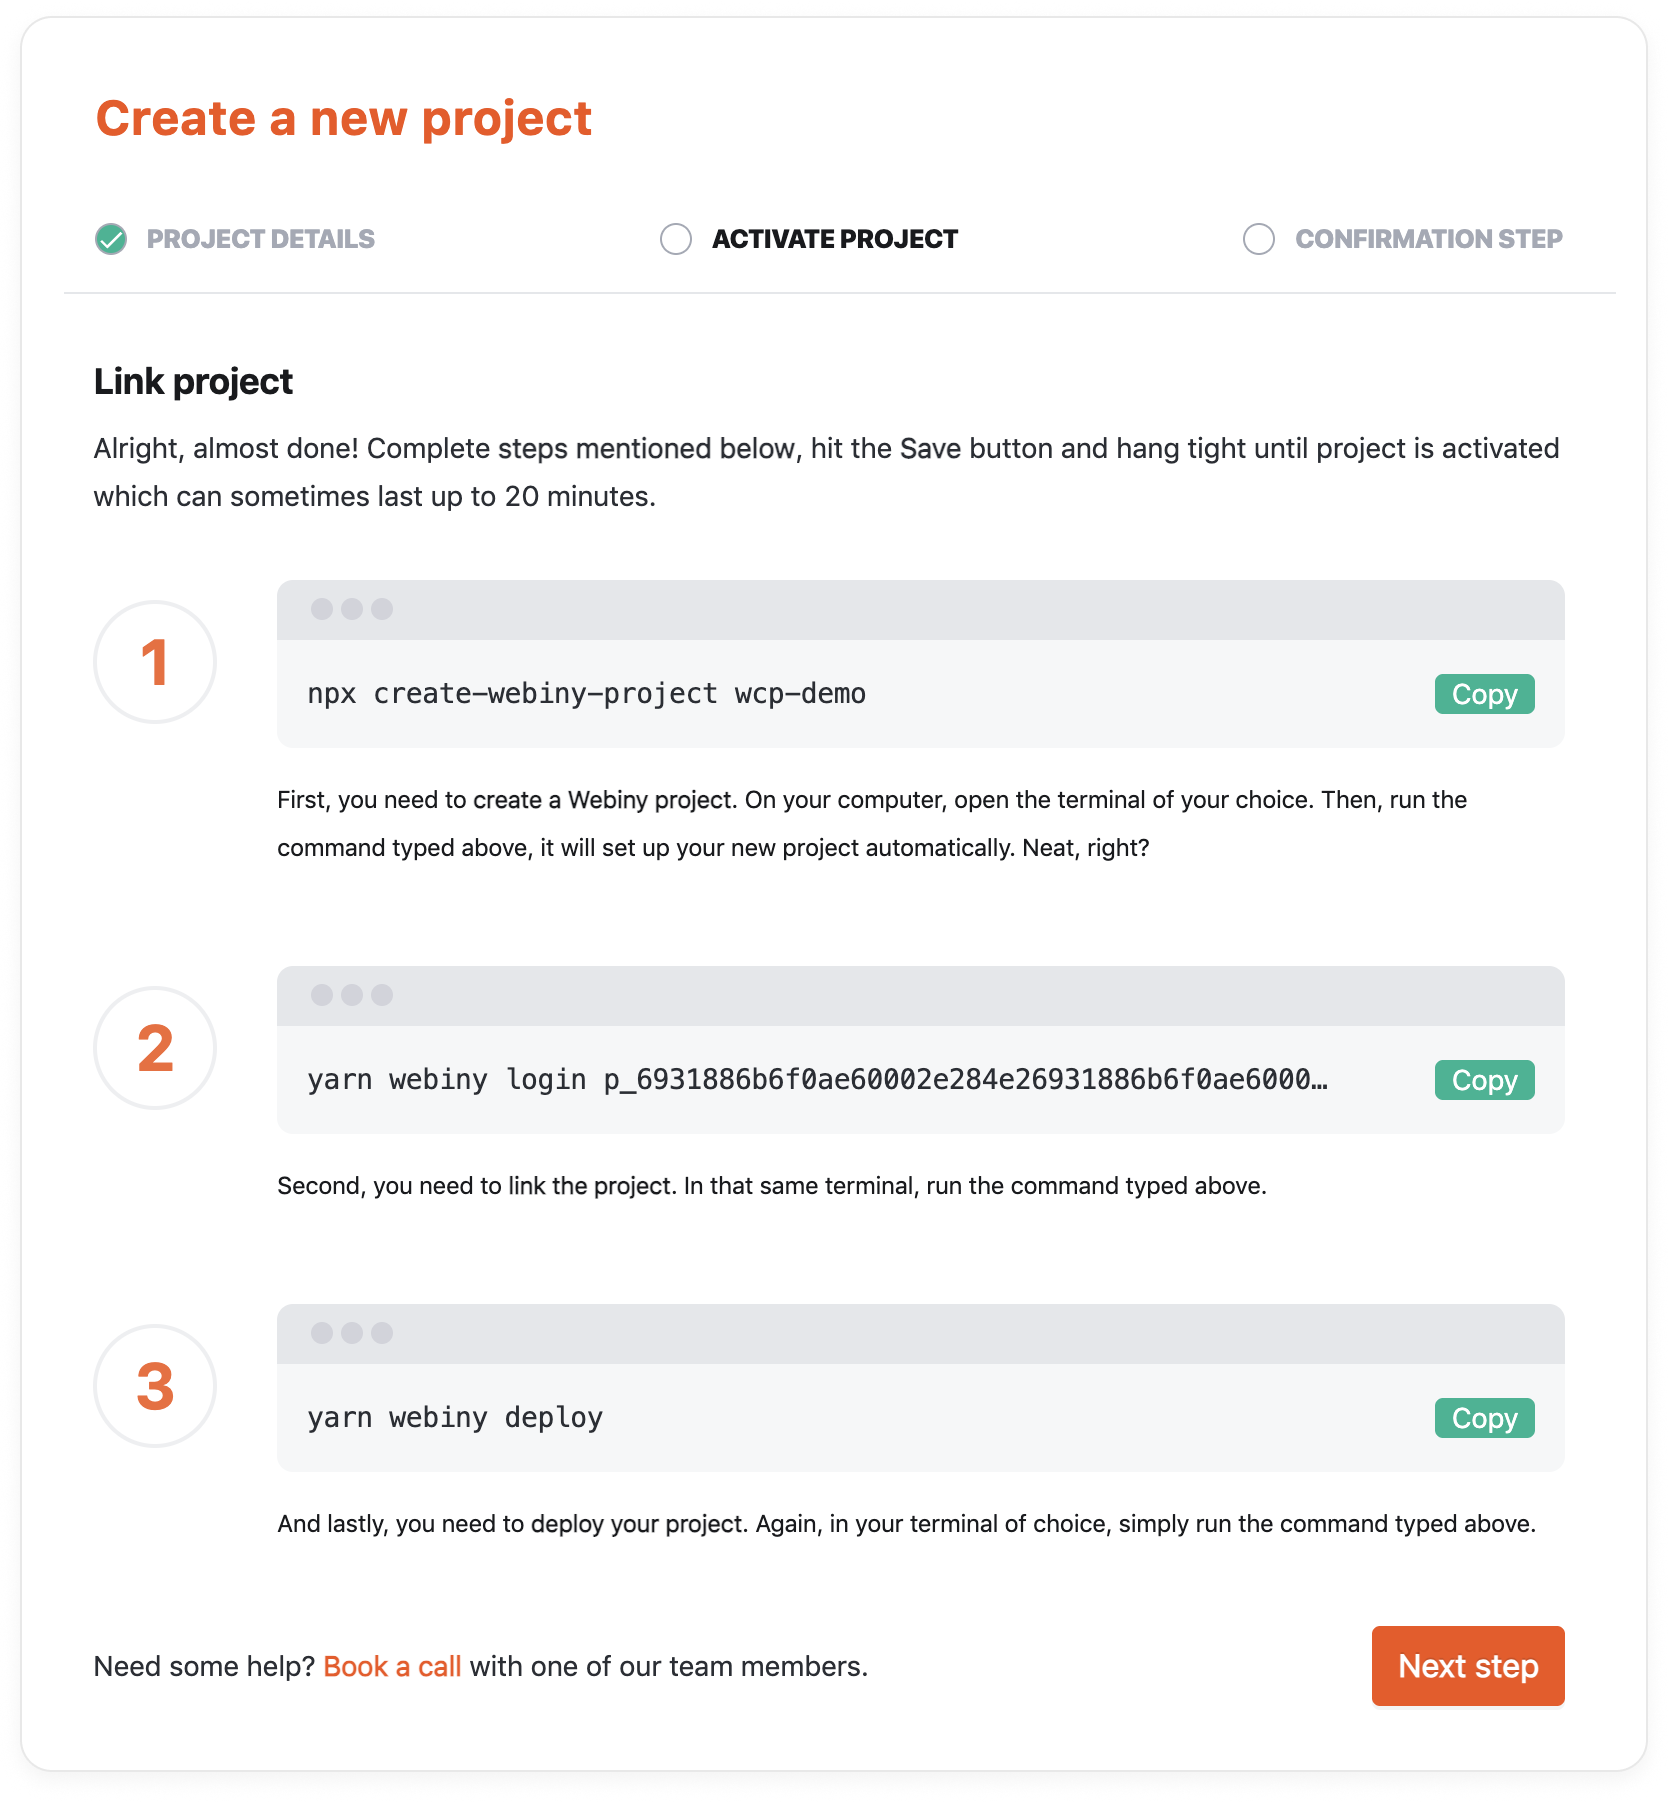
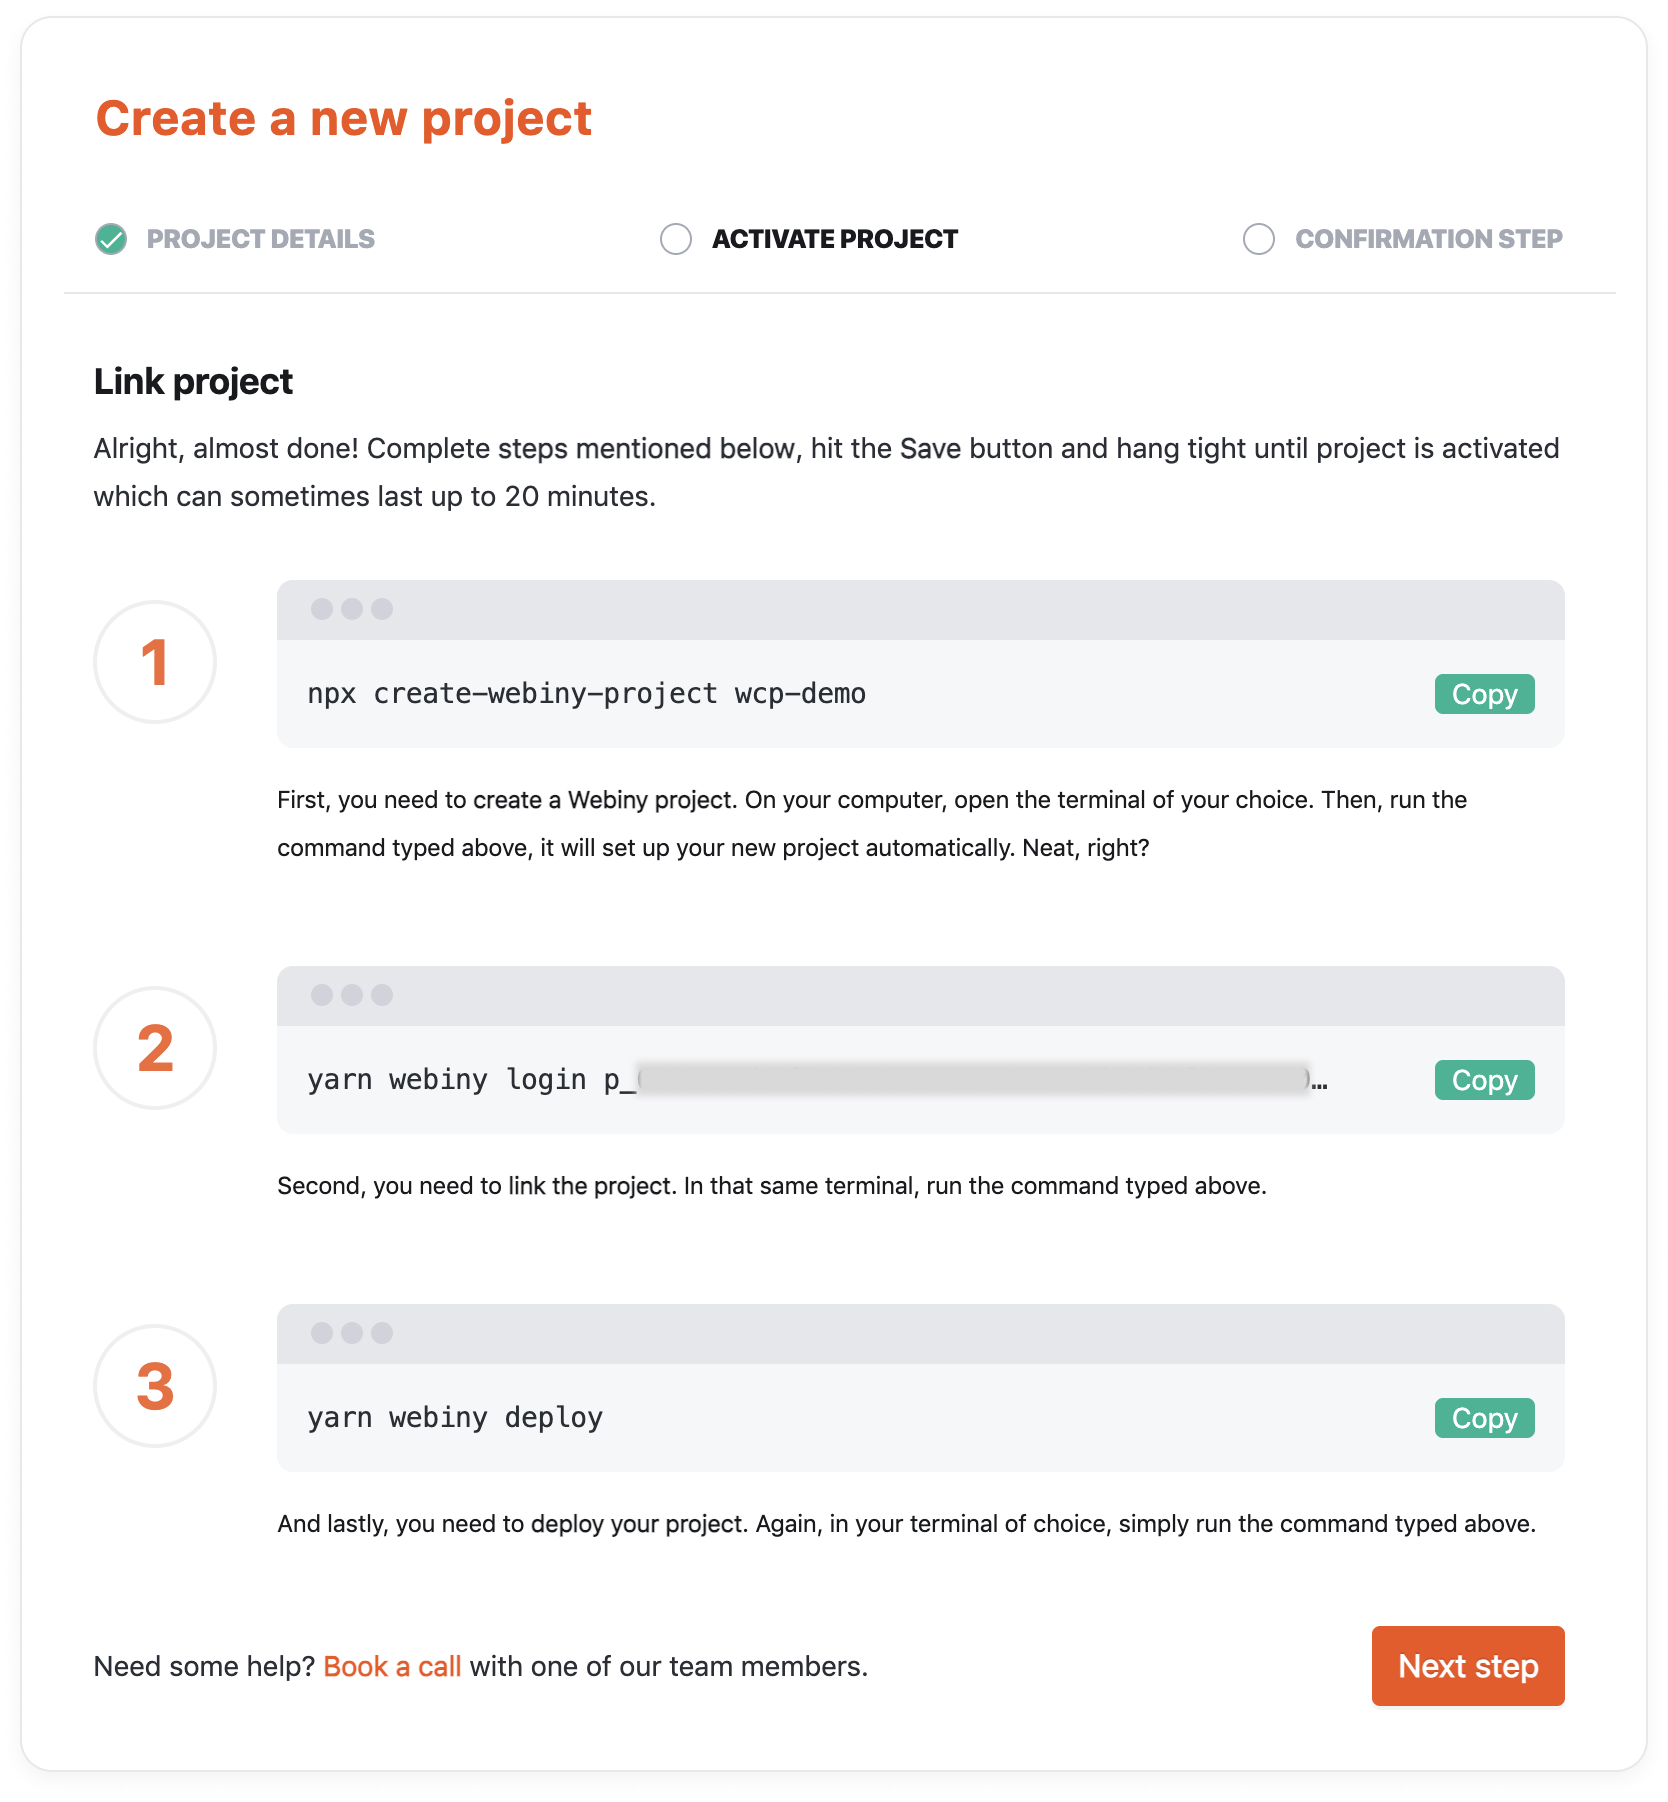
Updates to the lesson structure

Changed region(s): [[0.3741, 0.5905, 0.7794, 0.6215]]

diff --git a/lib/mdx-registry.ts b/lib/mdx-registry.ts
@@ -7,18 +7,18 @@
  * This registry maps slugs to their import functions
  */
 export const mdxImportRegistry: Record<string, () => Promise<any>> = {
+  "devops-best-practices/application-deployment-stacks": () => import("@/content/lessons/devops-best-practices/application-deployment-stacks.mdx"),
+  "devops-best-practices/webiny-deployments": () => import("@/content/lessons/devops-best-practices/webiny-deployments.mdx"),
   "foundation/about": () => import("@/content/lessons/foundation/about.mdx"),
   "foundation/infra-and-hosting": () => import("@/content/lessons/foundation/infra-and-hosting.mdx"),
   "foundation/multi-tenancy": () => import("@/content/lessons/foundation/multi-tenancy.mdx"),
   "foundation/webiny-apps": () => import("@/content/lessons/foundation/webiny-apps.mdx"),
   "foundation/webiny-framework": () => import("@/content/lessons/foundation/webiny-framework.mdx"),
   "foundation/webiny-parts": () => import("@/content/lessons/foundation/webiny-parts.mdx"),
-  "getting-started/application-deployment-stacks": () => import("@/content/lessons/getting-started/application-deployment-stacks.mdx"),
   "getting-started/deploy-webiny": () => import("@/content/lessons/getting-started/deploy-webiny.mdx"),
   "getting-started/installing-webiny": () => import("@/content/lessons/getting-started/installing-webiny.mdx"),
   "getting-started/upgrade-project": () => import("@/content/lessons/getting-started/upgrade-project.mdx"),
   "getting-started/webiny-cli-overview": () => import("@/content/lessons/getting-started/webiny-cli-overview.mdx"),
-  "getting-started/webiny-deployments": () => import("@/content/lessons/getting-started/webiny-deployments.mdx"),
   "webiny-control-panel/assigning-licenses": () => import("@/content/lessons/webiny-control-panel/assigning-licenses.mdx"),
   "webiny-control-panel/structure-and-organization": () => import("@/content/lessons/webiny-control-panel/structure-and-organization.mdx"),
   "webiny-control-panel/usage-tracking": () => import("@/content/lessons/webiny-control-panel/usage-tracking.mdx"),
@@ -44,6 +44,26 @@ export interface LessonRegistryItem {
  * Includes frontmatter and chapter info for each lesson
  */
 export const mdxRegistry: LessonRegistryItem[] = [
+  {
+    slug: "devops-best-practices/application-deployment-stacks",
+    import: () => import("@/content/lessons/devops-best-practices/application-deployment-stacks.mdx"),
+    frontmatter: {
+          "title": "Application Deployment Stacks",
+          "description": "Understanding Webiny application deployment stacks and their components.",
+          "order": 4
+    },
+    chapter: "devops-best-practices"
+  },
+  {
+    slug: "devops-best-practices/webiny-deployments",
+    import: () => import("@/content/lessons/devops-best-practices/webiny-deployments.mdx"),
+    frontmatter: {
+          "title": "Deployment Environments",
+          "description": "Understanding Webiny environments and deployments.",
+          "order": 3
+    },
+    chapter: "devops-best-practices"
+  },
   {
     slug: "foundation/about",
     import: () => import("@/content/lessons/foundation/about.mdx"),
@@ -105,16 +125,6 @@ export const mdxRegistry: LessonRegistryItem[] = [
     chapter: "foundation"
   },
   {
-    slug: "getting-started/application-deployment-stacks",
-    import: () => import("@/content/lessons/getting-started/application-deployment-stacks.mdx"),
-    frontmatter: {
-          "title": "Application Deployment Stacks",
-          "description": "Understanding Webiny application deployment stacks and their components.",
-          "order": 4
-    },
-    chapter: "getting-started"
-  },
-  {
     slug: "getting-started/deploy-webiny",
     import: () => import("@/content/lessons/getting-started/deploy-webiny.mdx"),
     frontmatter: {
@@ -151,16 +161,6 @@ export const mdxRegistry: LessonRegistryItem[] = [
           "title": "Webiny CLI Overview",
           "description": "An introduction to the Webiny Command Line Interface (CLI) and its functionalities.",
           "order": 2
-    },
-    chapter: "getting-started"
-  },
-  {
-    slug: "getting-started/webiny-deployments",
-    import: () => import("@/content/lessons/getting-started/webiny-deployments.mdx"),
-    frontmatter: {
-          "title": "Deployment Environments",
-          "description": "Understanding Webiny environments and deployments.",
-          "order": 3
     },
     chapter: "getting-started"
   },

diff --git a/lib/course-data.ts b/lib/course-data.ts
@@ -35,6 +35,27 @@ export const courseData: Course = {
     "Go from beginner to expert by learning the foundations of Webiny and building a fully functional serverless application that uses all the latest features.",
   chapters: [
     {
+        id: "developing",
+        ...chapterMetadata["developing"],
+        lessons: []
+    },
+    {
+        id: "devops-best-practices",
+        ...chapterMetadata["devops-best-practices"],
+        lessons: [
+                  {
+                            "id": "application-deployment-stacks",
+                            "title": "Application Deployment Stacks",
+                            "slug": "devops-best-practices/application-deployment-stacks"
+                  },
+                  {
+                            "id": "webiny-deployments",
+                            "title": "Deployment Environments",
+                            "slug": "devops-best-practices/webiny-deployments"
+                  }
+        ]
+    },
+    {
         id: "foundation",
         ...chapterMetadata["foundation"],
         lessons: [
@@ -75,11 +96,6 @@ export const courseData: Course = {
         ...chapterMetadata["getting-started"],
         lessons: [
                   {
-                            "id": "application-deployment-stacks",
-                            "title": "Application Deployment Stacks",
-                            "slug": "getting-started/application-deployment-stacks"
-                  },
-                  {
                             "id": "deploy-webiny",
                             "title": "Deploy Webiny",
                             "slug": "getting-started/deploy-webiny"
@@ -98,13 +114,18 @@ export const courseData: Course = {
                             "id": "webiny-cli-overview",
                             "title": "Webiny CLI Overview",
                             "slug": "getting-started/webiny-cli-overview"
-                  },
-                  {
-                            "id": "webiny-deployments",
-                            "title": "Deployment Environments",
-                            "slug": "getting-started/webiny-deployments"
                   }
         ]
+    },
+    {
+        id: "headless-cms",
+        ...chapterMetadata["headless-cms"],
+        lessons: []
+    },
+    {
+        id: "multi-tenancy",
+        ...chapterMetadata["multi-tenancy"],
+        lessons: []
     },
     {
         id: "webiny-control-panel",
@@ -131,6 +152,11 @@ export const courseData: Course = {
                             "slug": "webiny-control-panel"
                   }
         ]
+    },
+    {
+        id: "website-builder",
+        ...chapterMetadata["website-builder"],
+        lessons: []
     }
 ],
 }

diff --git a/lib/chapter-metadata.ts b/lib/chapter-metadata.ts
@@ -21,19 +21,49 @@ export const chapterMetadata: Record<string, ChapterMetadata> = {
     number: 1,
     title: 'Foundation',
     description: 'Overview of Webiny fundamentals.',
-    icon: 'crown' // Trophy/crown icon
+    icon: 'crown'
   },
   'getting-started': {
     number: 2,
     title: 'Getting Started',
     description: 'Learn how to install and deploy Webiny.',
-    icon: 'rocket_launch' // Rocket icon
+    icon: 'rocket_launch'
+  },
+  'developing': {
+    number: 3,
+    title: 'Developing with Webiny',
+    description: 'How to customize, extend and build with Webiny.',
+    icon: 'code_blocks'
+  },
+  'headless-cms': {
+    number: 4,
+    title: 'Working with Webiny Headless CMS',
+    description: 'Learn how to manage content, create content models, and use the Headless CMS API.',
+    icon: 'wysiwyg'
+  },
+  'website-builder': {
+    number: 5,
+    title: 'Working with Webiny Website Builder',
+    description: 'Learn how to create and manage websites using Webiny Website Builder.',
+    icon: 'table_chart'
+  },
+  'multi-tenancy': {
+    number: 6,
+    title: 'Multi-Tenancy Basics',
+    description: 'Learn how multi-tenancy works in Webiny and how to set it up.',
+    icon: 'table_chart'
+  },
+  'devops-best-practices': {
+    number: 7,
+    title: 'DevOps Best Practices',
+    description: 'Learn the devops practices for managing Webiny projects.',
+    icon: 'manufacturing'
   },
   'webiny-control-panel': {
-        number: 3,
-        title: 'Webiny Control Panel',
-        description: 'Learn how to manage and upgrade your project\'s license.',
-        icon: 'license' // Rocket icon
+      number: 8,
+      title: 'Webiny Control Panel',
+      description: 'Learn how to manage and upgrade your project\'s license.',
+      icon: 'license'
    },
 }
 

diff --git a/components/quiz.tsx b/components/quiz.tsx
@@ -89,7 +89,7 @@ export function Quiz({ quiz, question, options, correctAnswer, hint, explanation
                   isSelected && !showResult && "border-primary bg-primary/5",
                   showCorrect && "border-green-500 bg-green-50 dark:bg-green-950/20",
                   showIncorrect && "border-red-500 bg-red-50 dark:bg-red-950/20",
-                  !isSelected && !showCorrect && !showIncorrect && "border-border hover:bg-gray-50",
+                  !isSelected && !showCorrect && !showIncorrect && "border-border hover:bg-gray-50 dark:hover:bg-gray-900",
                 )}
               >
                 <div
